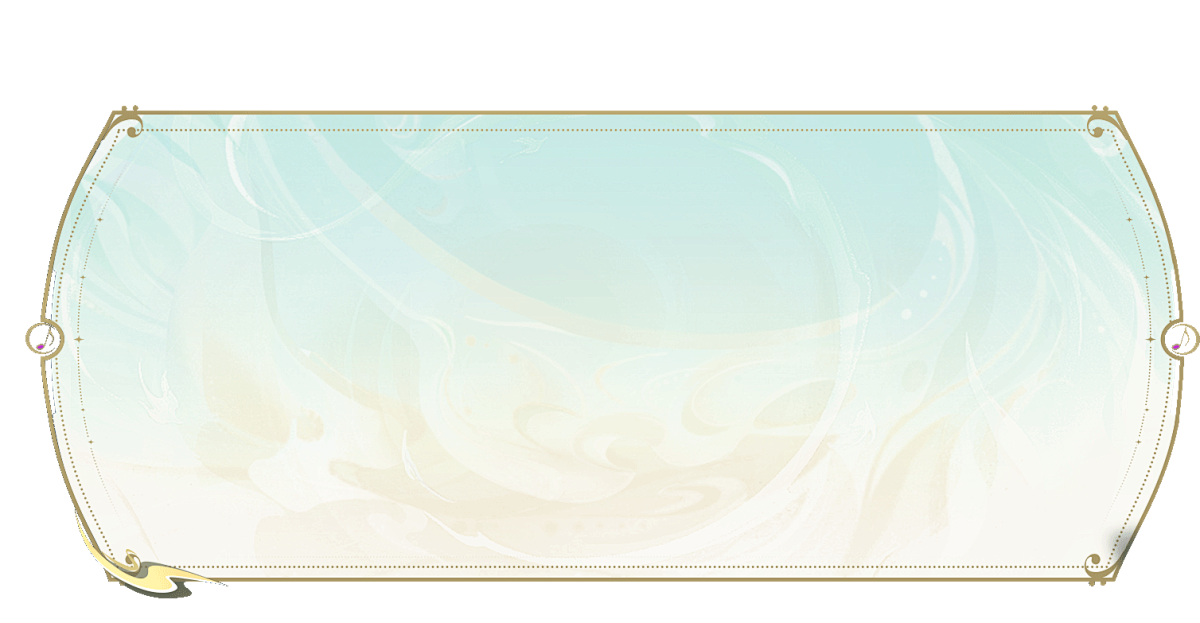
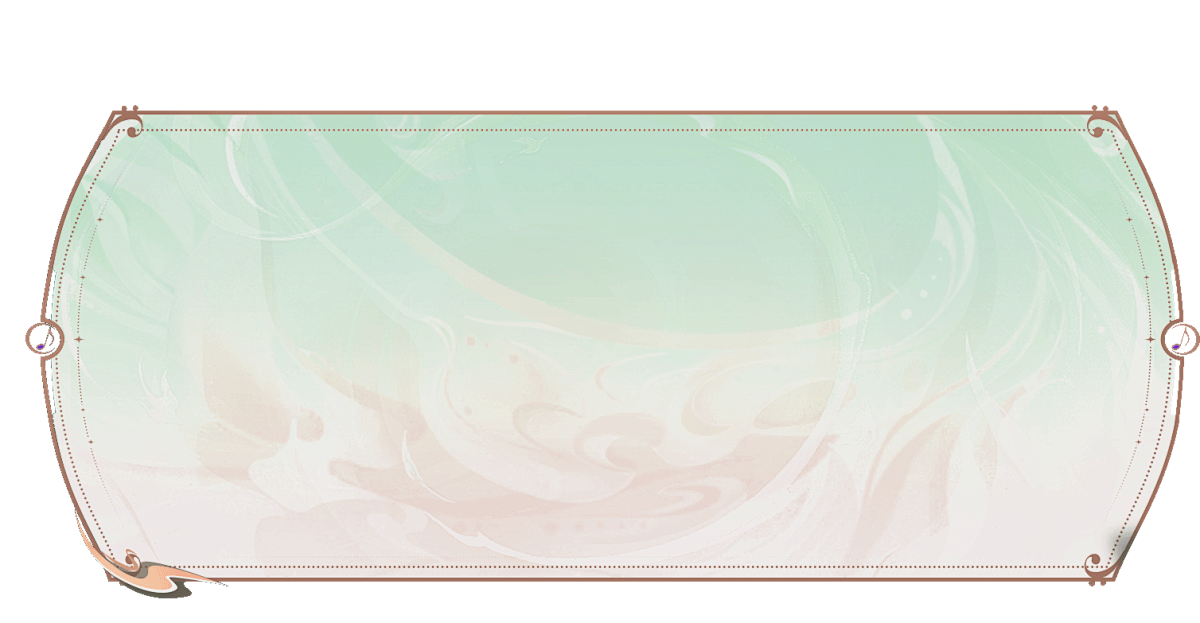
feat(announce): 番种条之前插入「底座底座」大盘子，横向从右往左扫开 0.5s（前停 0.3s）（v1.0.8）

diff --git a/更新日志.md b/更新日志.md
@@ -4,6 +4,11 @@
 
 ## v1.0.8（2026-11-03）
 
+- 结算播报：番种条之前先露一块「**底座底座**」大盘子——
+  蒙版+横幅淡入后停 0.2s，再休息 **0.3s**，然后**横向从右往左**扫开（**0.5s**），
+  扫完**不休息**直接露第一条番种；后面每条仍按 0.3s/间隔 1s。
+  三个参数可调：`plate_wait` / `plate_wipe` / `plate_offset`（`和牌播报.tscn` 根节点检查器）。
+
 - **三张技能卡的「换牌」机制统一改成「提前换位」，不再在摸牌那一刻硬塞和牌 / 绕过判定**：
   - Card34 S2【海底】：确认听牌在牌山里 → 立刻把**海底牌**和那张听牌换位；
     之后正常摸海底就是和的牌（正常自摸判定，海底捞月照常），摸牌时不再改为硬塞。
